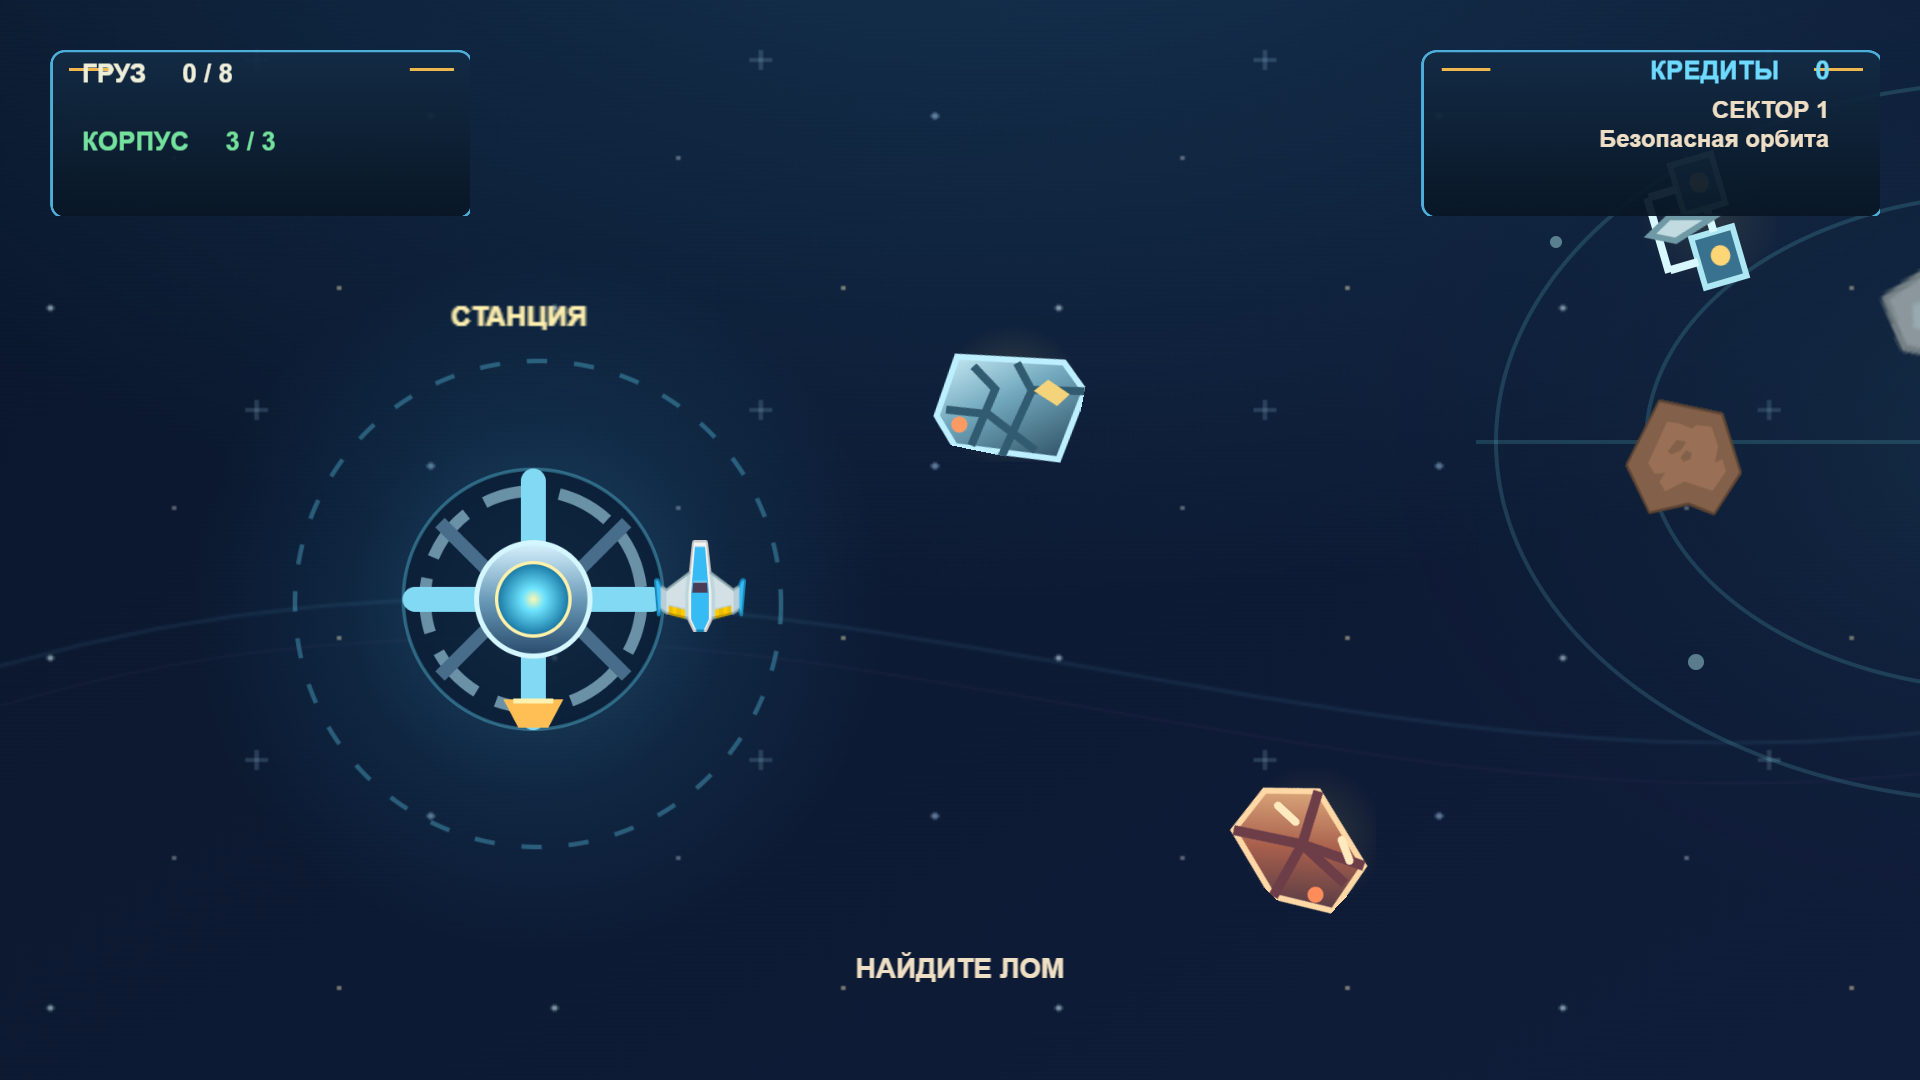
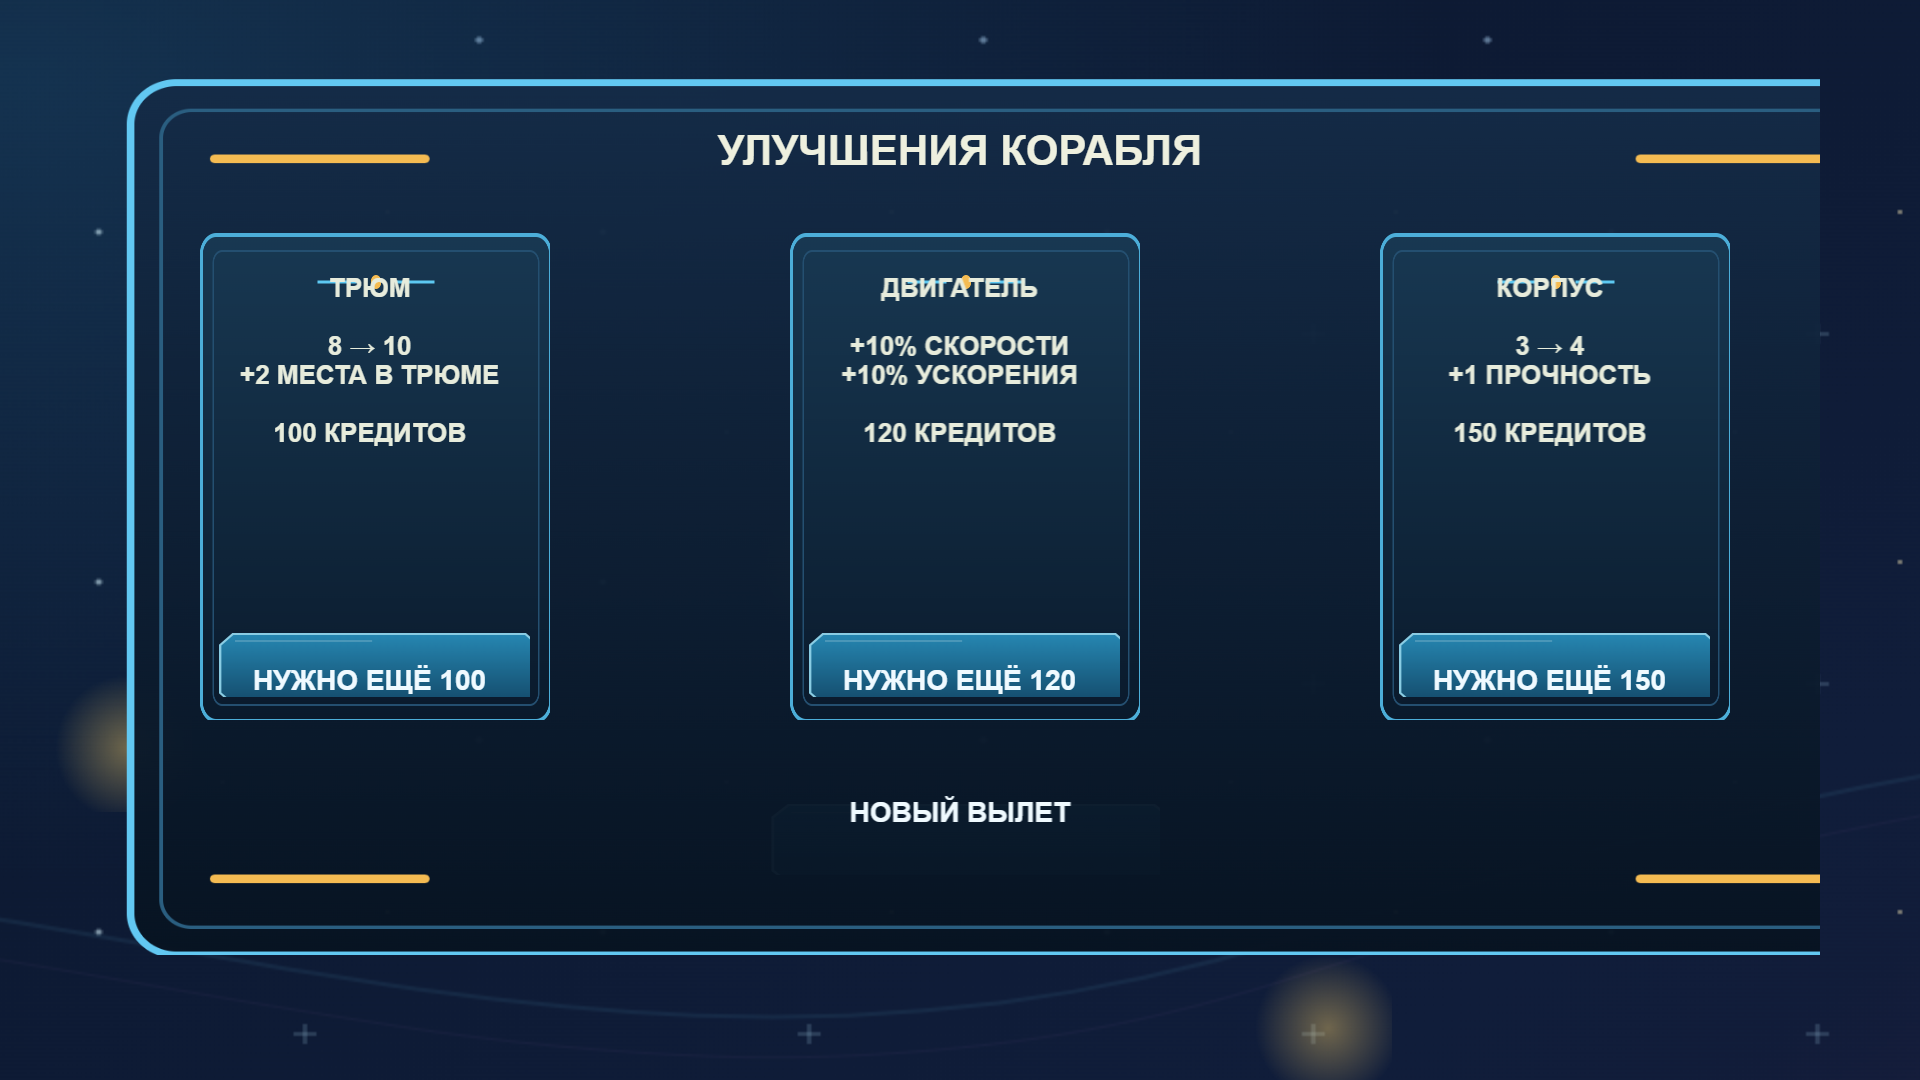
fix: finish CorePass05 upgrade states and polish

diff --git a/scripts/migrate-hd-ui.js b/scripts/migrate-hd-ui.js
@@ -78,7 +78,8 @@ const findActions = value => { if (!value || typeof value !== 'object') return; 
 findActions(layout);
 for (const action of actions) {
   let code = action.inlineCode.join('\n');
-  if (code.includes("v.get('Credits').setNumber(0);}")) code = code.replace("v.get('Credits').setNumber(0);}", "v.get('Credits').setNumber(0);if(typeof window!=='undefined'&&window.location.hostname==='127.0.0.1'&&window.location.search.includes('qaCredits'))v.get('Credits').setNumber(Number(new URLSearchParams(window.location.search).get('qaCredits'))||0);}");
+  if (code.includes('__osInit')) code = code.replace("v.get('Credits').setNumber(0);", "v.get('Credits').setNumber(0);if(typeof window!=='undefined'&&window.location.hostname==='127.0.0.1'){const q=new URLSearchParams(window.location.search);if(q.has('qaCredits'))v.get('Credits').setNumber(Number(q.get('qaCredits'))||0);if(q.has('qaState'))v.get('GameState').setString(q.get('qaState'));if(q.has('qaCargoMax'))v.get('CargoMax').setNumber(Number(q.get('qaCargoMax'))||8);if(q.has('qaHullMax'))v.get('HullMax').setNumber(Number(q.get('qaHullMax'))||3);if(q.has('qaEngine'))v.get('EngineLevel').setNumber(Number(q.get('qaEngine'))||0);}");
+  if (code.includes("v.get('Credits').setNumber(0);}")) code = code.replace("v.get('Credits').setNumber(0);}", "v.get('Credits').setNumber(0);if(typeof window!=='undefined'&&window.location.hostname==='127.0.0.1'&&window.location.search.includes('qaCredits')){const q=new URLSearchParams(window.location.search);v.get('Credits').setNumber(Number(q.get('qaCredits'))||0);if(q.get('qaState'))v.get('GameState').setString(q.get('qaState'));if(q.get('qaCargoMax'))v.get('CargoMax').setNumber(Number(q.get('qaCargoMax'))||8);if(q.get('qaHullMax'))v.get('HullMax').setNumber(Number(q.get('qaHullMax'))||3);if(q.get('qaEngine'))v.get('EngineLevel').setNumber(Number(q.get('qaEngine'))||0);}}");
   code = code.replace("runtimeScene.__osCam={x:480,y:677};v.get('GameState')", "runtimeScene.__osCam={x:480,y:677};gdjs.evtTools.camera.setCameraZoom(runtimeScene,2,'World',0);v.get('GameState')");
   code = code.replace("runtimeScene.__osCam={x:480,y:677};runtimeScene.getObjects", "runtimeScene.__osCam={x:480,y:677};gdjs.evtTools.camera.setCameraZoom(runtimeScene,2,'World',0);runtimeScene.getObjects");
   code = code.replace("getCursorY(runtimeScene,'HUD',0)>=350&&gdjs.evtTools.input.getCursorY(runtimeScene,'HUD',0)<=440", "getCursorY(runtimeScene,'HUD',0)>=680&&gdjs.evtTools.input.getCursorY(runtimeScene,'HUD',0)<=784");
